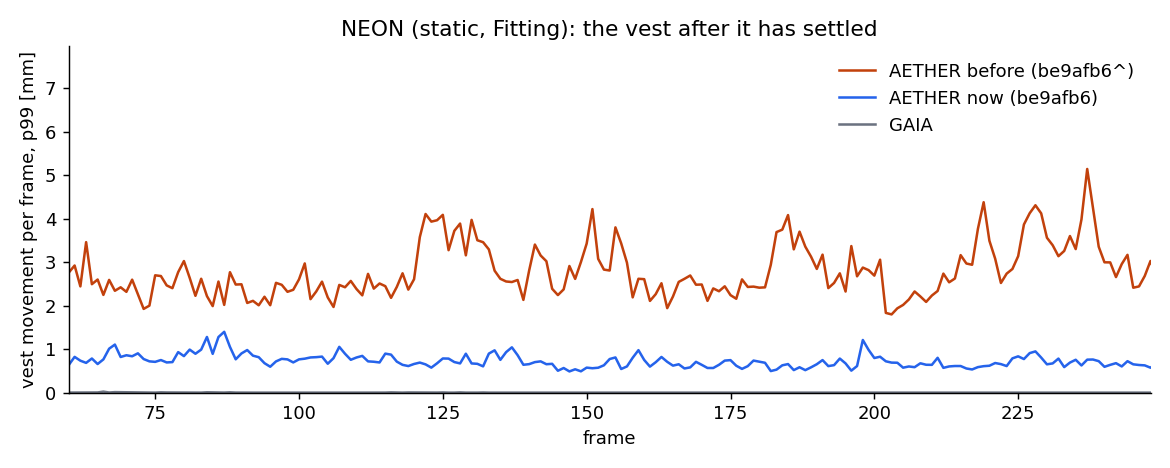
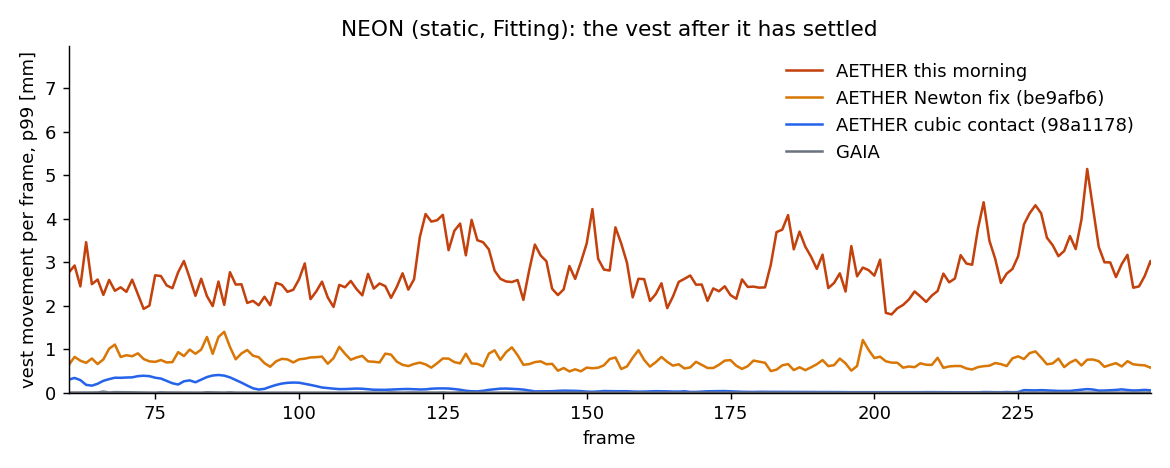
Readiness report: cubic contact law (engine 98a1178), stiff-vest study, jitter chart

diff --git a/docs/validation/AETHER_PRODUCTION_READINESS_REPORT.md b/docs/validation/AETHER_PRODUCTION_READINESS_REPORT.md
@@ -5,7 +5,7 @@ version change or deployment. GAIA unchanged.
 
 | component | Milestone 5.3 | this pass |
 |---|---|---|
-| AETHER Engine | `010740b` (build `1339fe67b78d7686`, API 1.2) | `be9afb6` (build `55538b6e29a49b91`, **API 1.3**, host protocol 1) |
+| AETHER Engine | `010740b` (build `1339fe67b78d7686`, API 1.2) | `98a1178` (**API 1.3**, host protocol 1) |
 | Cloth NeXt | `0eab4fb` | `e9deb1e` + this report |
 
 The goal was "AETHER must feel like real Marvelous cloth". This pass adds three things:
@@ -182,6 +182,77 @@ Engine tests 37/37. Two thresholds were adjusted with the measured spread:
 
 Still open: GAIA settles completely, while AETHER keeps a residual of about 0.5 mm. Slow slip bursts of about 100
 vertices still occur; a better static-friction model is the next lever.
+
+## 3c. Cubic contact law and the stiff vest (engine `98a1178`)
+
+**Stiffness.** Tim found NEON's vest stiff in the GAIA bake but soft in AETHER. Measured over the bake:
+
+| | median deformation | p95 deformation |
+|---|---|---|
+| GAIA | 0.4 mm | 0.8 mm |
+| AETHER | 2.5 mm | 12.5 mm |
+
+The difference is concentrated in the free-standing lower front.
+
+* **Cause:** the contact gap. PPF's contact-gap is the activation distance of an IPC barrier, and layers rest inside it.
+  AETHER's quadratic penalty held the full gap and pushed the vest off its band, which lies about 1 mm away.
+* **Ruled out:** the material stiffness arrives correctly. More iterations, more Newton steps and 10x bending made no
+  difference.
+* **Inlay zone:** the vest's "Inlay" zone (young-mod 10, 4.65 N/m) is intentional.
+
+**Contact law.** Mesh contacts now use a cubic law, E = k (gap - d)^3 / (3 gap):
+
+* zero force at the gap;
+* the penalty's maximum k·gap at contact;
+* stiffness 0 to 2k.
+
+Contacts between two different cloths keep 0.5 x the summed thickness as their gap.
+
+**Measured** (NEON Fitting replay, vest / band / trousers frame-to-frame jitter in mm):
+
+| | vest | band | trousers |
+|---|---|---|---|
+| before | 0.13 | 0.15 | 0.09 |
+| cubic | 0.004 | 0.003 | 0.002 |
+
+The cost stayed the same.
+
+**Blender, staged engine:**
+
+| scene | ms per frame | before |
+|---|---|---|
+| static NEON | 13.1 / 19.0 / 25.0 | |
+| animated NEON | 108 / 129 / 147 | 112 / 135 / 155 |
+
+* 0 intersections everywhere: ball, static and animated NEON;
+* largest stretch in animated NEON 1.94x / 1.86x / 1.36x;
+* kill + resume byte-identical.
+
+Engine tests 37/37, host 10/10.
+
+![vest movement per frame: this morning / Newton fix / cubic / GAIA](aether_production/neon_vest_jitter.png)
+
+**Rejected:**
+
+| idea | result |
+|---|---|
+| IPC log barrier | oscillates in the VBD sweeps, 2.4x slower |
+| thin gap for all contacts | animated NEON explodes |
+| thin gap only for vertices layered at the start | no gain |
+| symmetric contact stiffness, halved contact step, lagged friction normal force | no gain |
+
+**Open:** a 0.5 gap for every cloth-cloth contact (`AETHER_EXP_SELF_GAP_ALL=1`):
+
+* holds the vest like GAIA: 0.47 / 1.05 mm, against GAIA's 0.37 / 0.83;
+* fails `deforming_colliders`, where a tightly pinched elbow sleeve passes through itself.
+
+The vest is calm now but still softer than in GAIA (2.2 / 8 mm).
+
+**Stretch Limit:** a stiff penalty (300) stalls a sewn garment at its limit: NEON's vest median stretch was 1.042,
+against 1.003 without limits. A soft penalty (3) fixes NEON but fails the `strain_limit` test (10.6 % for 5 %). It
+stays off in Cloth NeXt.
+
+Correction: `14ffd37` was reported green on a stale test binary. `ba7278a` reverted it.
 
 ## 4. Strain limiting (engine API 1.3, experimental in Cloth NeXt)
 
